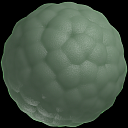
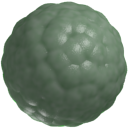
updated graphics

diff --git a/src/towerDefense/Gameplay.java b/src/towerDefense/Gameplay.java
@@ -83,7 +83,7 @@ public class Gameplay extends GameComponent {
 		super.init(container);
 		this.initDefaults();
 
-		this.currentMapLayout = new MapLayout("maps/map.png", "veins/flat.png", SIZE);
+		this.currentMapLayout = new MapLayout("maps/map.png", "veins/bg.png", SIZE);
 		this.currentTileLength = this.currentMapLayout.getTileLength();
 		this.pathTiler = new PathTiler(this.currentMapLayout.getPath());
 
@@ -95,9 +95,9 @@ public class Gameplay extends GameComponent {
 
 		this.towers = new Tower[12][13];
 		this.initWaves();
-		this.enemyTypes.add(new EnemyType(100, 0.1f, "enemy/v1n.png", this, 25, 20, 0.05f));
-		this.enemyTypes.add(new EnemyType(200, 0.25f, "enemy/v2n.png", this, 25, 100, 0.04f));
-		this.enemyTypes.add(new EnemyType(10000, 0.03f, "enemy/v1n.png", this, 25, 1000, 0.07f));
+		this.enemyTypes.add(new EnemyType(100, 0.1f, "enemy/v1n.png", this, 25, 20, 0.5f));
+		this.enemyTypes.add(new EnemyType(200, 0.25f, "enemy/v2n.png", this, 25, 100, 0.4f));
+		this.enemyTypes.add(new EnemyType(10000, 0.03f, "enemy/v1n.png", this, 25, 1000, 0.7f));
 
 		// add all objects that need to be drawn to the respectable arrays
 		// entities
@@ -106,8 +106,8 @@ public class Gameplay extends GameComponent {
 
 		// Buttons; this has nothing to do with the draw sequence
 		this.towerButton1 = new TowerButton(Gameplay.INTERFACE_START_X, 200, "buttons/PSButton1.png", "buttons/PSButton1_click.png",
-				new LongerShootingTower(0, 0, new Sprite("tower/t1n.png", 0.1f), this, 400, 0.08f, 400), this);
-		this.towerButton2 = new TowerButton(Gameplay.INTERFACE_START_X, 250, "buttons/PSButton1.png", "buttons/PSButton1_click.png",
+				new LongerShootingTower(0, 0, new Sprite("tower/t1n.png", 0.5f), this, 400, 0.08f, 400), this);
+		this.towerButton2 = new TowerButton(Gameplay.INTERFACE_START_X, 264, "buttons/PSButton1.png", "buttons/PSButton1_click.png",
 				new BombTower(0, 0, new Sprite("tower/roteBlutk_klein.png", 1f), this, 1000, 20f, 50), this);
 		this.clickables.add(this.towerButton1);
 		this.clickables.add(this.towerButton2);
@@ -239,9 +239,9 @@ public class Gameplay extends GameComponent {
 			Sprite sprite = this.currentTower.getSprite().clone();
 
 			if (this.currentTowerPlaceable) {
-				new SlickUnfilledRectangle(graphics, 50, 50, Color.green).draw(this.towerShadowX, this.towerShadowY);
+				new SlickUnfilledRectangle(graphics, SIZE, SIZE, Color.green).draw(this.towerShadowX, this.towerShadowY);
 			} else {
-				new SlickUnfilledRectangle(graphics, 50, 50, Color.red).draw(this.towerShadowX, this.towerShadowY);
+				new SlickUnfilledRectangle(graphics, SIZE, SIZE, Color.red).draw(this.towerShadowX, this.towerShadowY);
 				sprite.setColor(1f, 0, 0);
 			}
 
@@ -266,8 +266,8 @@ public class Gameplay extends GameComponent {
 					if (this.towers[i][j] != null) {
 						Tower currentTower = this.towers[i][j];
 						new SlickUnfilledEllipse(graphics, currentTower.getRadius() * 2, currentTower.getRadius() * 2, Color.red)
-								.draw(currentTower.getX() * this.currentTileLength + 25, currentTower.getY() * this.currentTileLength
-										+ 25);
+								.draw(currentTower.getX() * this.currentTileLength + Gameplay.SIZE/2, currentTower.getY() * this.currentTileLength
+										+ SIZE/2);
 					}
 				}
 			}
@@ -324,10 +324,10 @@ public class Gameplay extends GameComponent {
 			// this.towerShadowY = (int) (input.getMouseY() - this.currentTower.getSprite().getHeight() / 2);
 			int x = input.getMouseX();
 			int y = input.getMouseY();
-			int newX = x / 50;
-			int newY = y / 50;
-			this.towerShadowX = newX * 50;
-			this.towerShadowY = newY * 50;
+			int newX = x / Gameplay.SIZE;
+			int newY = y / Gameplay.SIZE;
+			this.towerShadowX = newX * Gameplay.SIZE;
+			this.towerShadowY = newY * Gameplay.SIZE;
 			int[][] path = this.currentMapLayout.getPath();
 			if (this.player.getMoney() < this.currentTower.getCost()) {
 				this.currentTowerPlaceable = false;

diff --git a/src/towerDefense/towers/RocketTower.java b/src/towerDefense/towers/RocketTower.java
@@ -1,0 +1,70 @@
+package towerDefense.towers;
+
+import towerDefense.Gameplay;
+import engine.Bomb;
+import engine.Enemy;
+import engine.graphics.Sprite;
+
+public class RocketTower extends Tower {
+	protected int delta;
+	protected final int shootingInterval;
+	protected int bombRadius;
+
+	public RocketTower(float x, float y, Sprite sprite, Gameplay game,
+			int shootingInterval, float damage, int bombRadius) {
+		super(x * 50, y * 50, 100, 150, damage, game);
+		this.sprite = sprite;
+		this.shootingInterval = shootingInterval;
+		this.delta = this.shootingInterval;
+		this.bombRadius = bombRadius;
+	}
+
+	@Override
+	public void draw() {
+		this.sprite.draw(this.x * Gameplay.SIZE, this.y * Gameplay.SIZE);
+
+	}
+
+	@Override
+	public void shoot() {
+		boolean done = false;
+		for (Enemy enemy : this.game.getEnemies()) {
+			if (enemy != null && !done) {
+				float enemyX = enemy.getX();
+				float enemyY = enemy.getY();
+				float deltaX = enemyX - (this.getX() * 50 + 25);
+				float deltaY = enemyY - (this.getY() * 50 + 25);
+
+				float distance = (float) Math.sqrt(deltaX * deltaX + deltaY
+						* deltaY);
+
+				if (distance < this.radius + enemy.getRadius()) {
+					Bomb b = new Bomb(x * 50 + 25, y * 50 + 25, bombRadius,
+							damage, game, enemyX, enemyY);
+					game.getBombs().add(b);
+
+					done = true;
+					this.game.getSoundHandler().play("shotT2");
+
+				}
+			}
+		}
+
+	}
+
+	@Override
+	public void update(int delta) {
+		this.delta -= delta;
+		if (this.delta <= 0) {
+			this.delta = this.shootingInterval;
+			this.shoot();
+		}
+	}
+
+	@Override
+	public Tower clone() {
+		return new BombTower(this.x, this.y, this.sprite.clone(), this.game,
+				this.shootingInterval, this.damage, this.bombRadius);
+	}
+
+}

diff --git a/src/towerDefense/towers/BombTower.java b/src/towerDefense/towers/BombTower.java
@@ -12,7 +12,7 @@ public class BombTower extends Tower {
 
 	public BombTower(float x, float y, Sprite sprite, Gameplay game,
 			int shootingInterval, float damage, int bombRadius) {
-		super(x * 50, y * 50, 100, 150, damage, game);
+		super(x * Gameplay.SIZE, y * Gameplay.SIZE, 100, 150, damage, game);
 		this.sprite = sprite;
 		this.shootingInterval = shootingInterval;
 		this.delta = this.shootingInterval;
@@ -21,7 +21,7 @@ public class BombTower extends Tower {
 
 	@Override
 	public void draw() {
-		this.sprite.draw(this.x * 50, this.y * 50);
+		this.sprite.draw(this.x * Gameplay.SIZE, this.y * Gameplay.SIZE);
 
 	}
 
@@ -32,14 +32,14 @@ public class BombTower extends Tower {
 			if (enemy != null && !done) {
 				float enemyX = enemy.getX();
 				float enemyY = enemy.getY();
-				float deltaX = enemyX - (this.getX() * 50 + 25);
-				float deltaY = enemyY - (this.getY() * 50 + 25);
+				float deltaX = enemyX - (this.getX() * Gameplay.SIZE + Gameplay.SIZE/2);
+				float deltaY = enemyY - (this.getY() * Gameplay.SIZE + Gameplay.SIZE/2);
 
 				float distance = (float) Math.sqrt(deltaX * deltaX + deltaY
 						* deltaY);
 
 				if (distance < this.radius + enemy.getRadius()) {
-					Bomb b = new Bomb(x * 50 + 25, y * 50 + 25, bombRadius,
+					Bomb b = new Bomb(x * Gameplay.SIZE + Gameplay.SIZE/2, y * Gameplay.SIZE + Gameplay.SIZE/2, bombRadius,
 							damage, game, enemyX, enemyY);
 					game.getBombs().add(b);
 

diff --git a/src/engine/graphics/PathTiler.java b/src/engine/graphics/PathTiler.java
@@ -9,16 +9,16 @@ public class PathTiler {
 
 	public PathTiler(int[][] path) {
 		float scale = 0.5f;
-		this.corner1 = new Sprite("veins/VeinCorner.png", scale);
-		this.corner2 = new Sprite("veins/VeinCorner2.png", scale);
-		this.corner3 = new Sprite("veins/VeinCorner3.png", scale);
-		this.corner4 = new Sprite("veins/VeinCorner4.png", scale);
-		this.horizontal = new Sprite("veins/VeinHoriz.png", scale);
-		this.vertical = new Sprite("veins/VeinVert.png", scale);
-		this.top = new Sprite("veins/VeinVert.png", scale);
-		this.bottom = new Sprite("veins/VeinVert.png", scale);
-		this.left = new Sprite("veins/VeinHoriz.png", scale);
-		this.right = new Sprite("veins/VeinHoriz.png", scale);
+		this.corner1 = new Sprite("veins/ur.png", scale);
+		this.corner2 = new Sprite("veins/br.png", scale);
+		this.corner3 = new Sprite("veins/lb.png", scale);
+		this.corner4 = new Sprite("veins/ul.png", scale);
+		this.horizontal = new Sprite("veins/hori.png", scale);
+		this.vertical = new Sprite("veins/verti.png", scale);
+		this.top = new Sprite("veins/verti.png", scale);
+		this.bottom = new Sprite("veins/verti.png", scale);
+		this.left = new Sprite("veins/hori.png", scale);
+		this.right = new Sprite("veins/hori.png", scale);
 		this.tiles = new Sprite[path.length][path[0].length];
 
 		for (int y = 0; y < path.length; ++y) {

diff --git a/src/towerDefense/towers/ShootingTower.java b/src/towerDefense/towers/ShootingTower.java
@@ -10,7 +10,7 @@ public class ShootingTower extends Tower {
 
 	public ShootingTower(float x, float y, Sprite sprite, Gameplay game,
 			int shootingInterval, float damage) {
-		super(x * 50, y * 50, 100, 100, damage, game);
+		super(x * Gameplay.SIZE, y * Gameplay.SIZE, 100, 100, damage, game);
 		this.sprite = sprite;
 		this.shootingInterval = shootingInterval;
 		this.delta = this.shootingInterval;
@@ -24,7 +24,7 @@ public class ShootingTower extends Tower {
 
 	@Override
 	public void draw() {
-		this.sprite.draw(this.x * 50, this.y * 50);
+		this.sprite.draw(this.x * Gameplay.SIZE, this.y * Gameplay.SIZE);
 
 	}
 
@@ -44,8 +44,8 @@ public class ShootingTower extends Tower {
 			if (enemy != null && !done) {
 				float enemyX = enemy.getX();
 				float enemyY = enemy.getY();
-				float deltaX = enemyX - (this.getX() * 50 + 25);
-				float deltaY = enemyY - (this.getY() * 50 + 25);
+				float deltaX = enemyX - (this.getX() * Gameplay.SIZE + Gameplay.SIZE/2);
+				float deltaY = enemyY - (this.getY() * Gameplay.SIZE + Gameplay.SIZE/2);
 
 				float distance = (float) Math.sqrt(deltaX * deltaX + deltaY
 						* deltaY);

diff --git a/src/towerDefense/towers/Tower.java b/src/towerDefense/towers/Tower.java
@@ -32,8 +32,8 @@ public abstract class Tower extends Entity implements Drawable {
 		if (enemy != null) {
 			float enemyX = enemy.getX();
 			float enemyY = enemy.getY();
-			float deltaX = enemyX - (this.getX() * 50 + 25);
-			float deltaY = enemyY - (this.getY() * 50 + 25);
+			float deltaX = enemyX - (this.getX() * Gameplay.SIZE + Gameplay.SIZE/2);
+			float deltaY = enemyY - (this.getY() * Gameplay.SIZE + Gameplay.SIZE/2);
 
 			float distance = (float) Math.sqrt(deltaX * deltaX + deltaY
 					* deltaY);
@@ -61,8 +61,8 @@ public abstract class Tower extends Entity implements Drawable {
 			if (enemy != null && !done) {
 				float enemyX = enemy.getX();
 				float enemyY = enemy.getY();
-				float deltaX = enemyX - (this.getX() * 50 + 25);
-				float deltaY = enemyY - (this.getY() * 50 + 25);
+				float deltaX = enemyX - (this.getX() * Gameplay.SIZE + Gameplay.SIZE/2);
+				float deltaY = enemyY - (this.getY() * Gameplay.SIZE + Gameplay.SIZE/2);
 
 				float distance = (float) Math.sqrt(deltaX * deltaX + deltaY
 						* deltaY);
